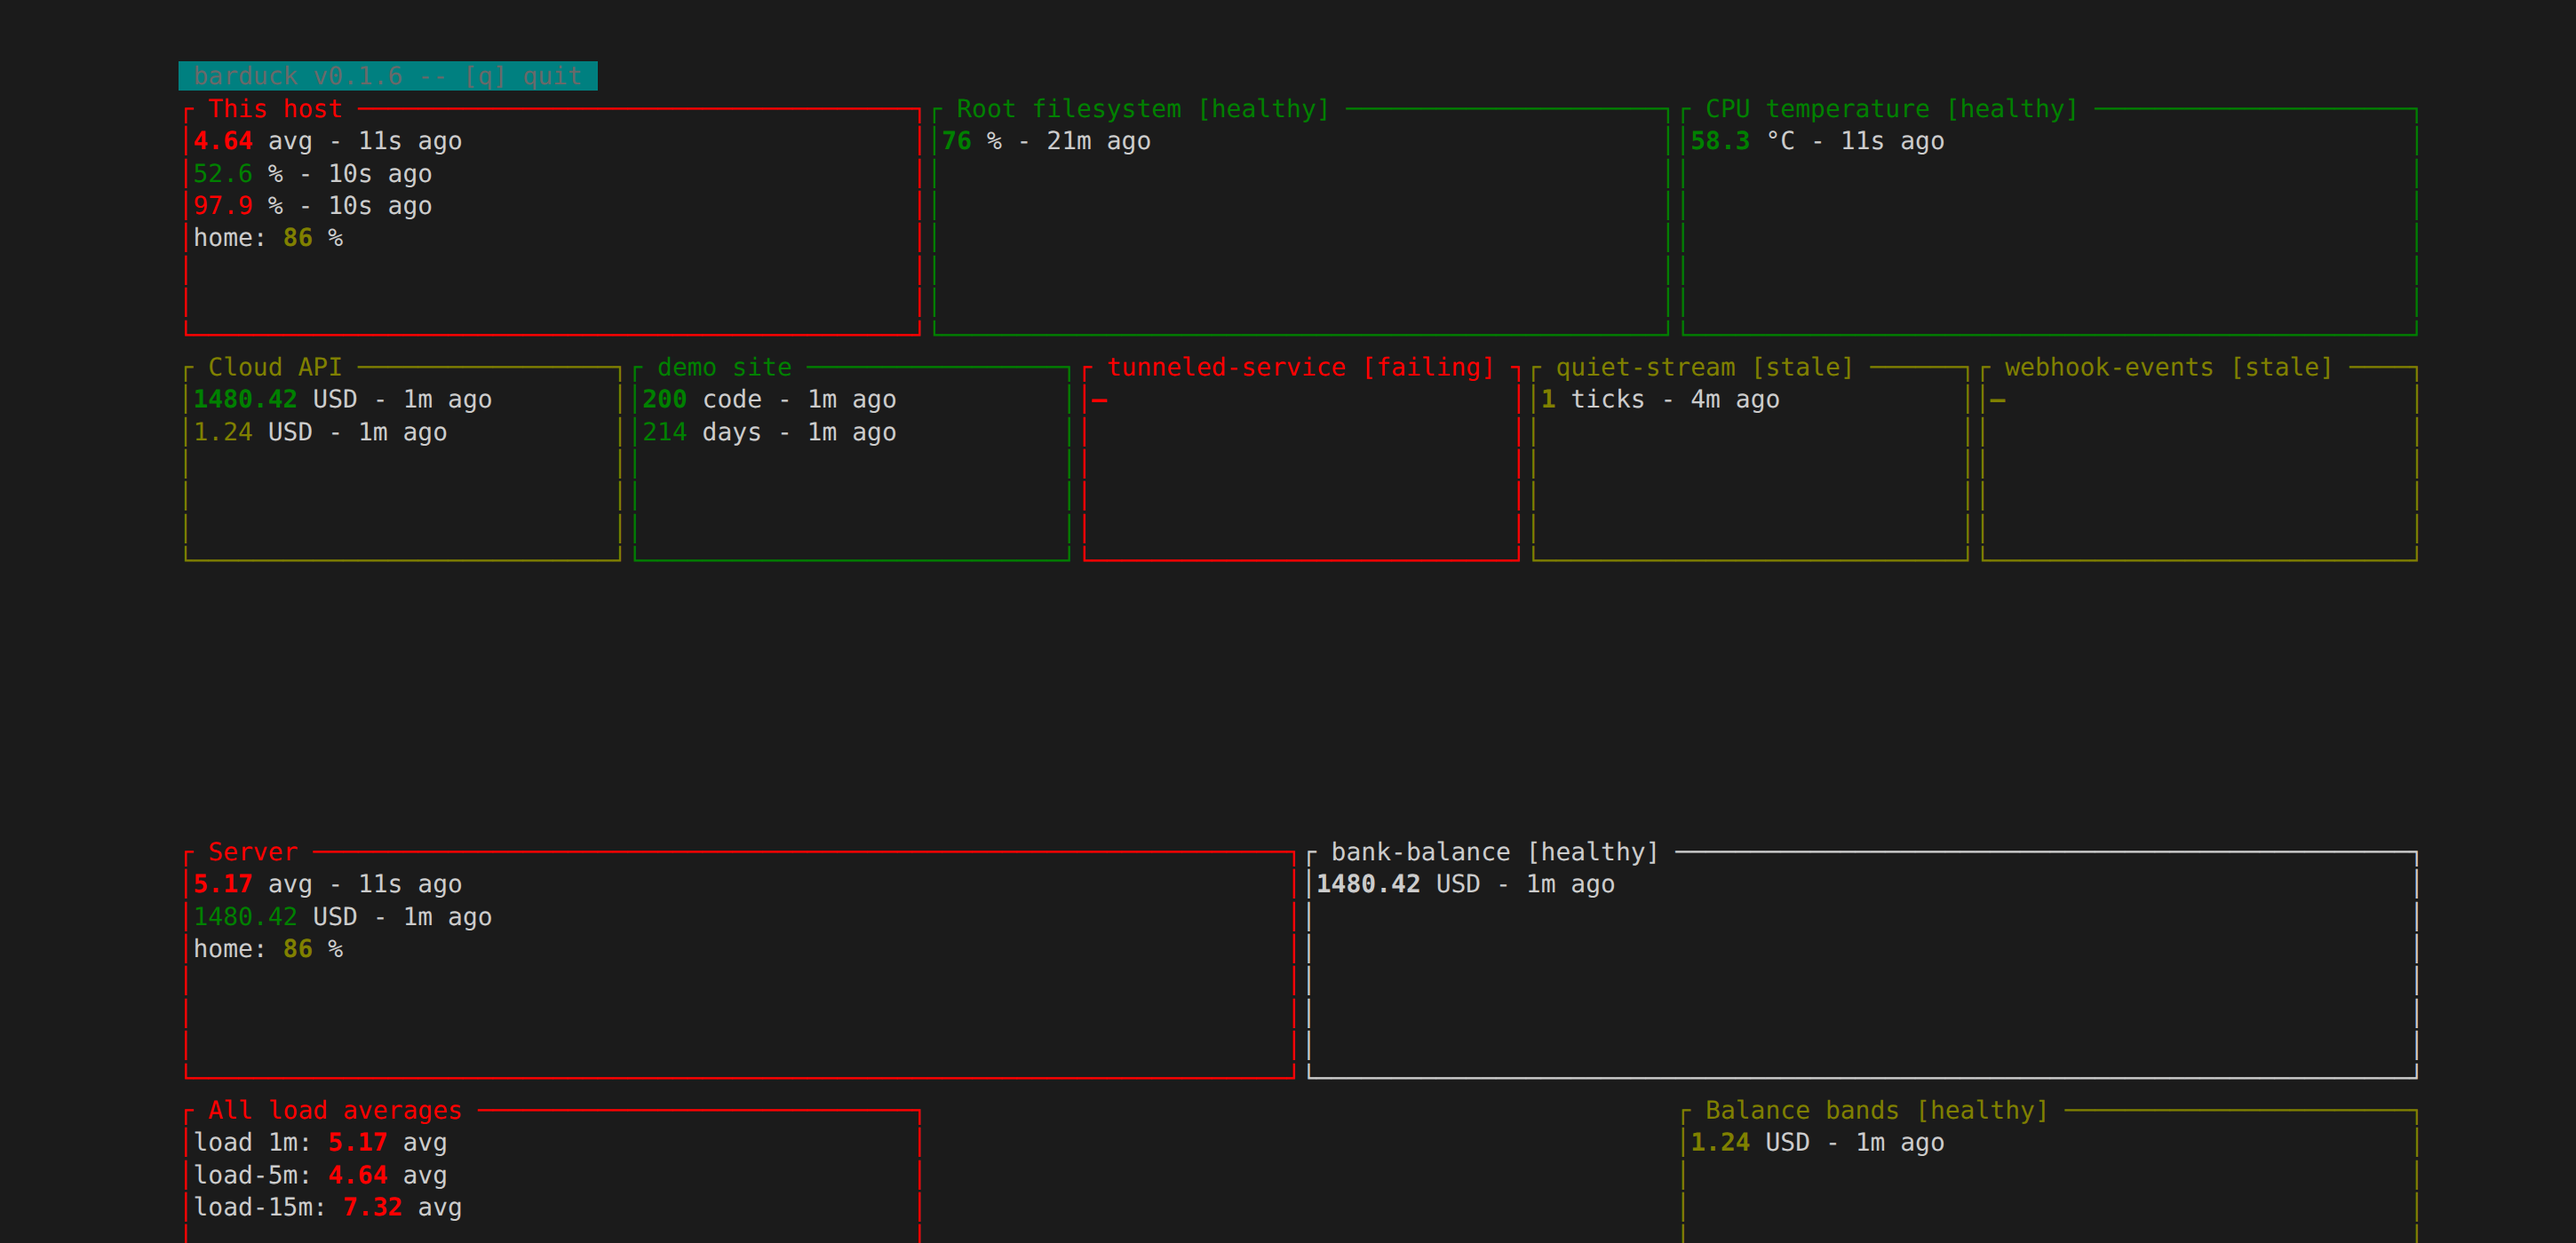
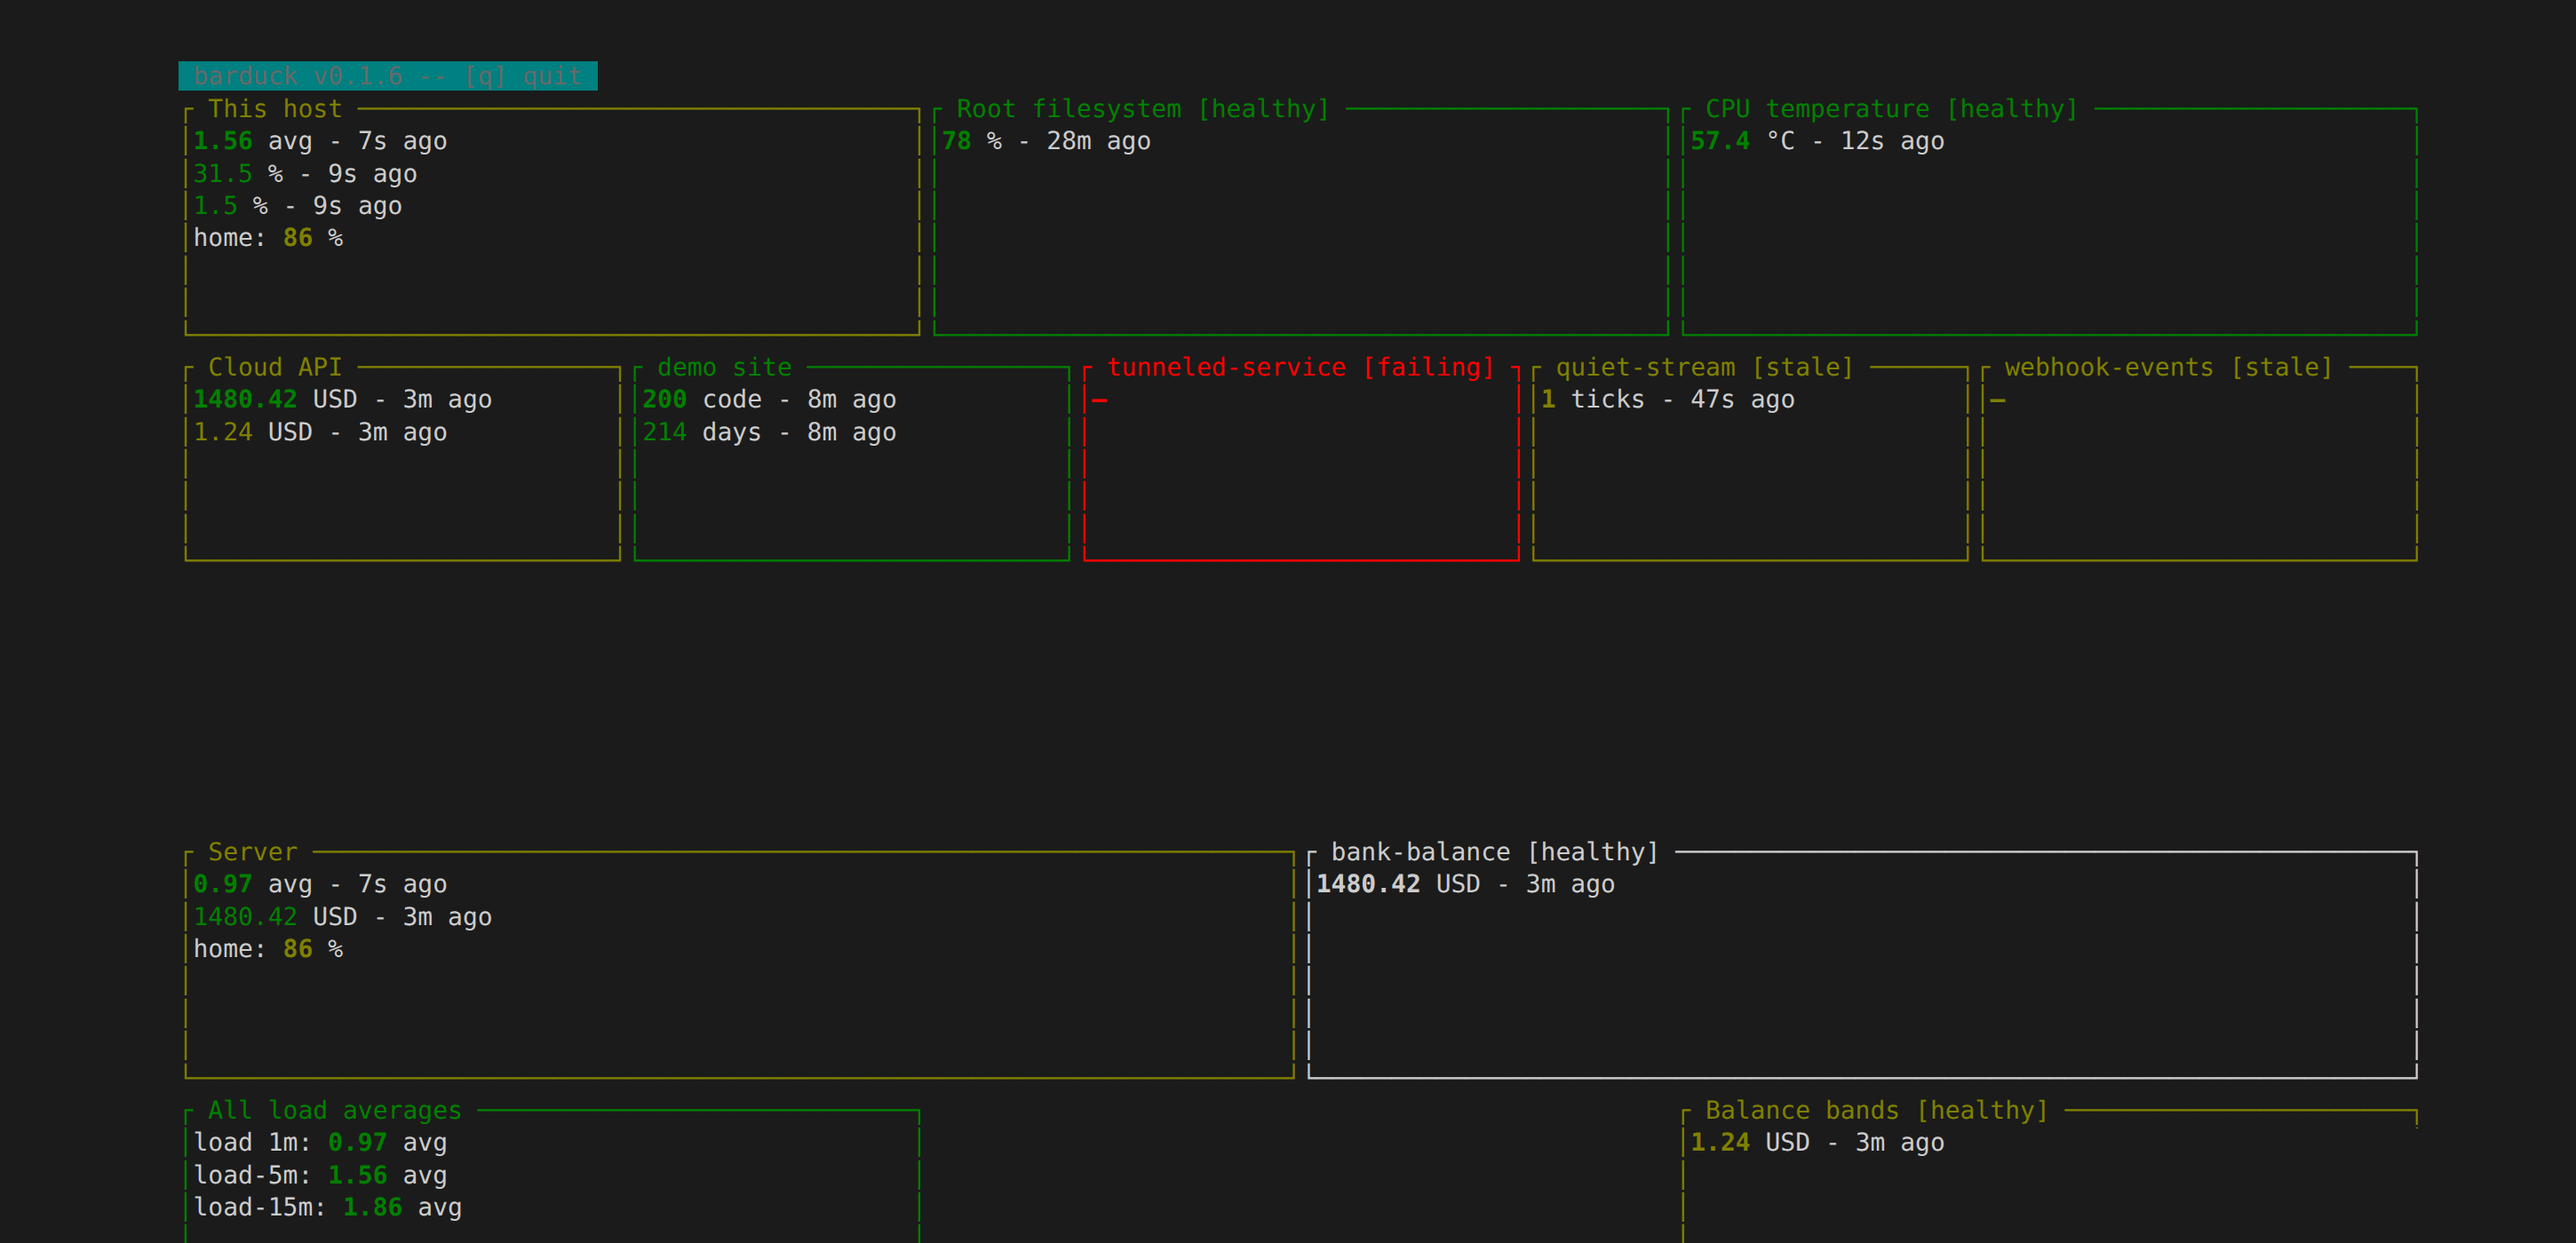
chore(docs): add light mode screenshots

diff --git a/README.md b/README.md
@@ -40,18 +40,27 @@ for a runnable tour.
 
 ### Web UI
 
-![barduck web UI](docs/screenshots/webui.png)
+<picture>
+  <source media="(prefers-color-scheme: dark)" srcset="docs/screenshots/webui.png">
+  <img src="docs/screenshots/webui-light.png" alt="barduck web UI (light theme)">
+</picture>
 
 Live dashboard served by `barduck daemon` — panels re-render as values arrive,
-with per-source health colors and history bars.
+with per-source health colors and history bars. Both dark and light theme
+screenshots are included; GitHub picks one automatically based on your
+`prefers-color-scheme` system setting.
 
 ### TUI
 
-![barduck TUI](docs/screenshots/tui.png)
+<picture>
+  <source media="(prefers-color-scheme: dark)" srcset="docs/screenshots/tui.png">
+  <img src="docs/screenshots/tui-light.png" alt="barduck TUI (light theme)">
+</picture>
 
 Terminal dashboard (`barduck tui`, ratatui) showing the same sources with
-health states — healthy, stale, and failing.
-
+health states — healthy, stale, and failing. Screenshots are regenerated
+with `nix develop .#screenshots -c demo/screenshot-tui.sh` (TUI) and a live
+capture of the running daemon (web UI).
 
 ## When should I use barduck?
 

diff --git a/demo/README.md b/demo/README.md
@@ -151,3 +151,17 @@ config.toml ──► sources (query / stream / ingest) ──► scheduler (tok
 - Layouts are config too: `[[layouts]]` lists source names per panel; TUI and
   web render the same definition.
 - One binary, four surfaces. Planning docs live in `openspec/`.
+
+## Regenerating the screenshots
+
+The README's screenshots come from this config. The TUI pair (dark
+`tui.png` and light `tui-light.png`) regenerates headlessly from the same
+tmux/ANSI capture:
+
+```sh
+nix develop .#screenshots -c demo/screenshot-tui.sh   # needs a running demo daemon
+```
+
+The web UI shots are captured live from the running daemon (dark via the
+browser, light via a static render of the served page with the connection
+banner suppressed).
